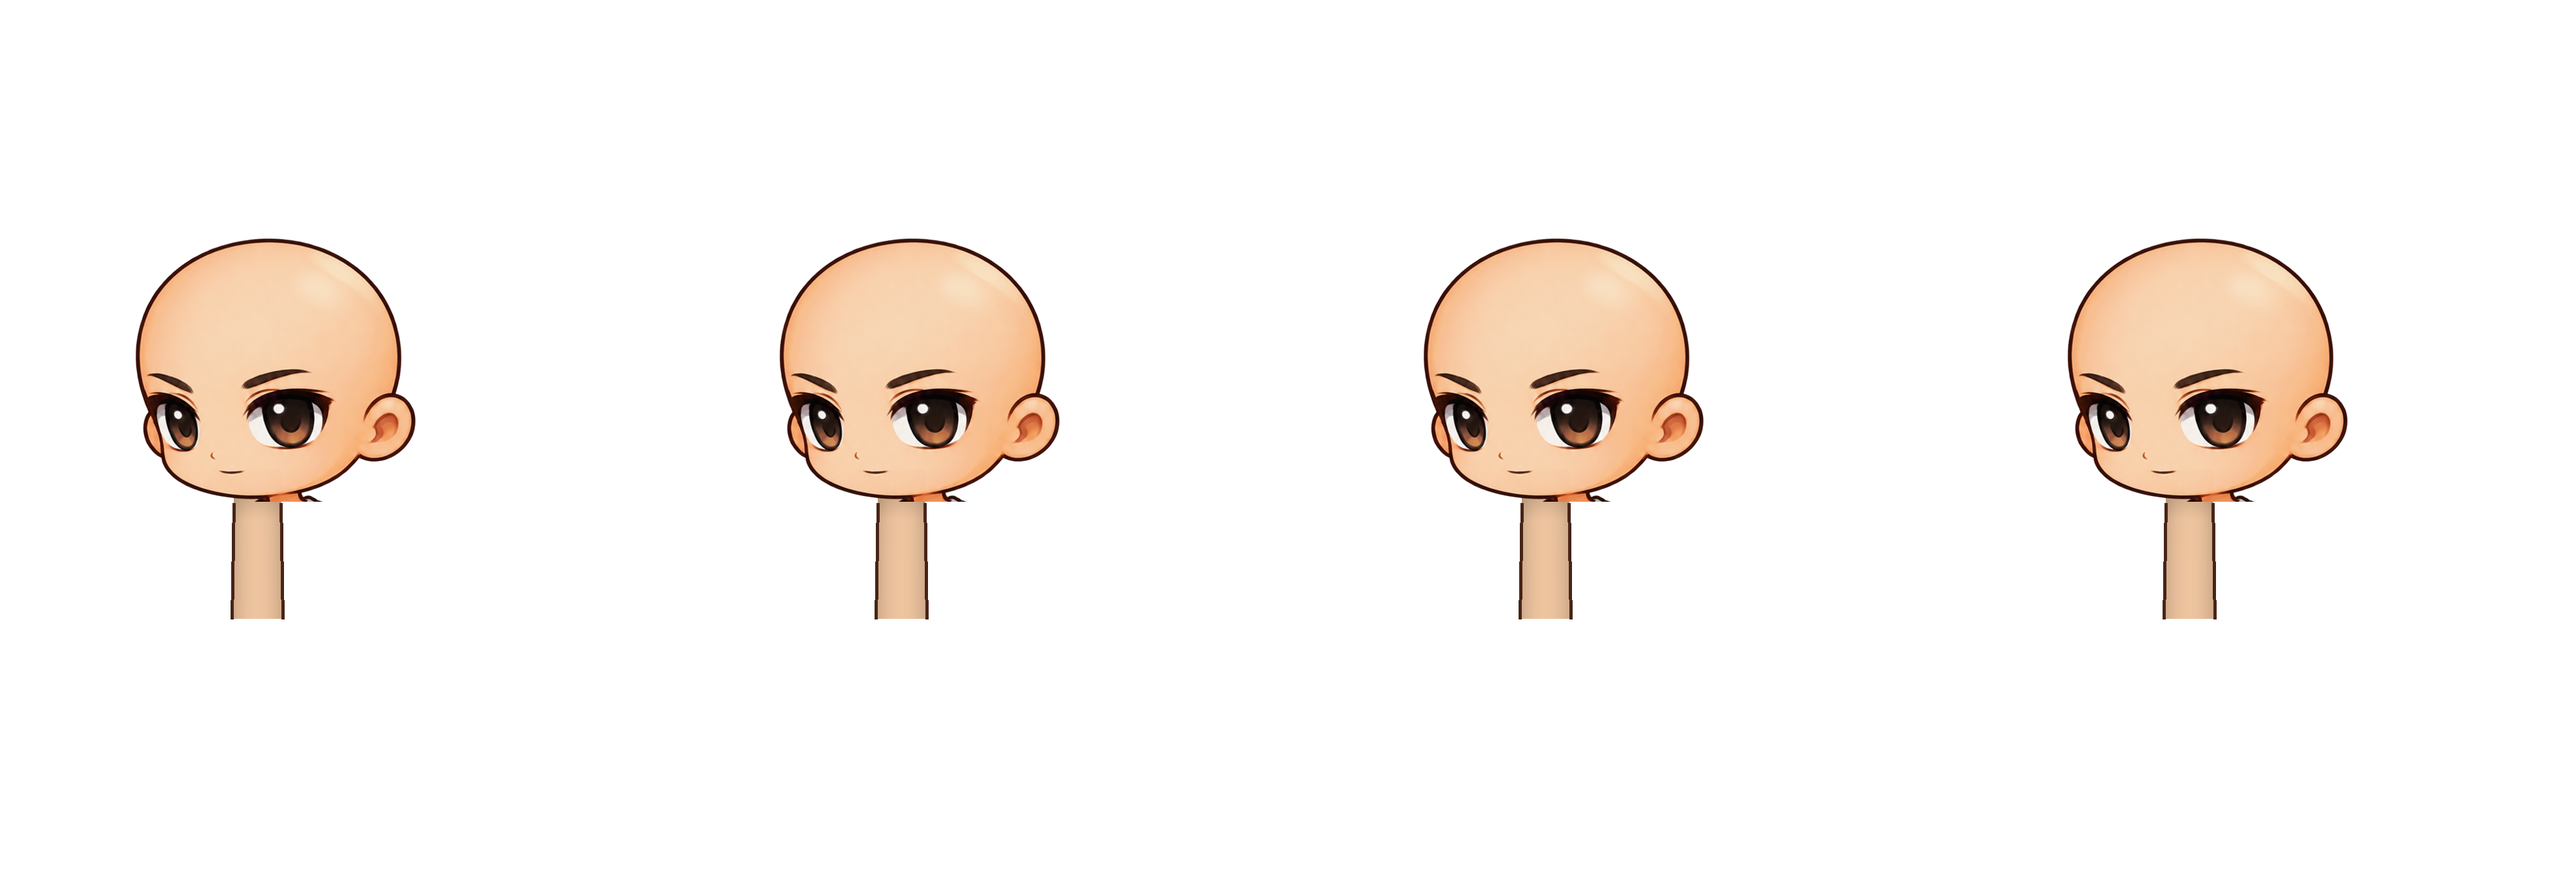
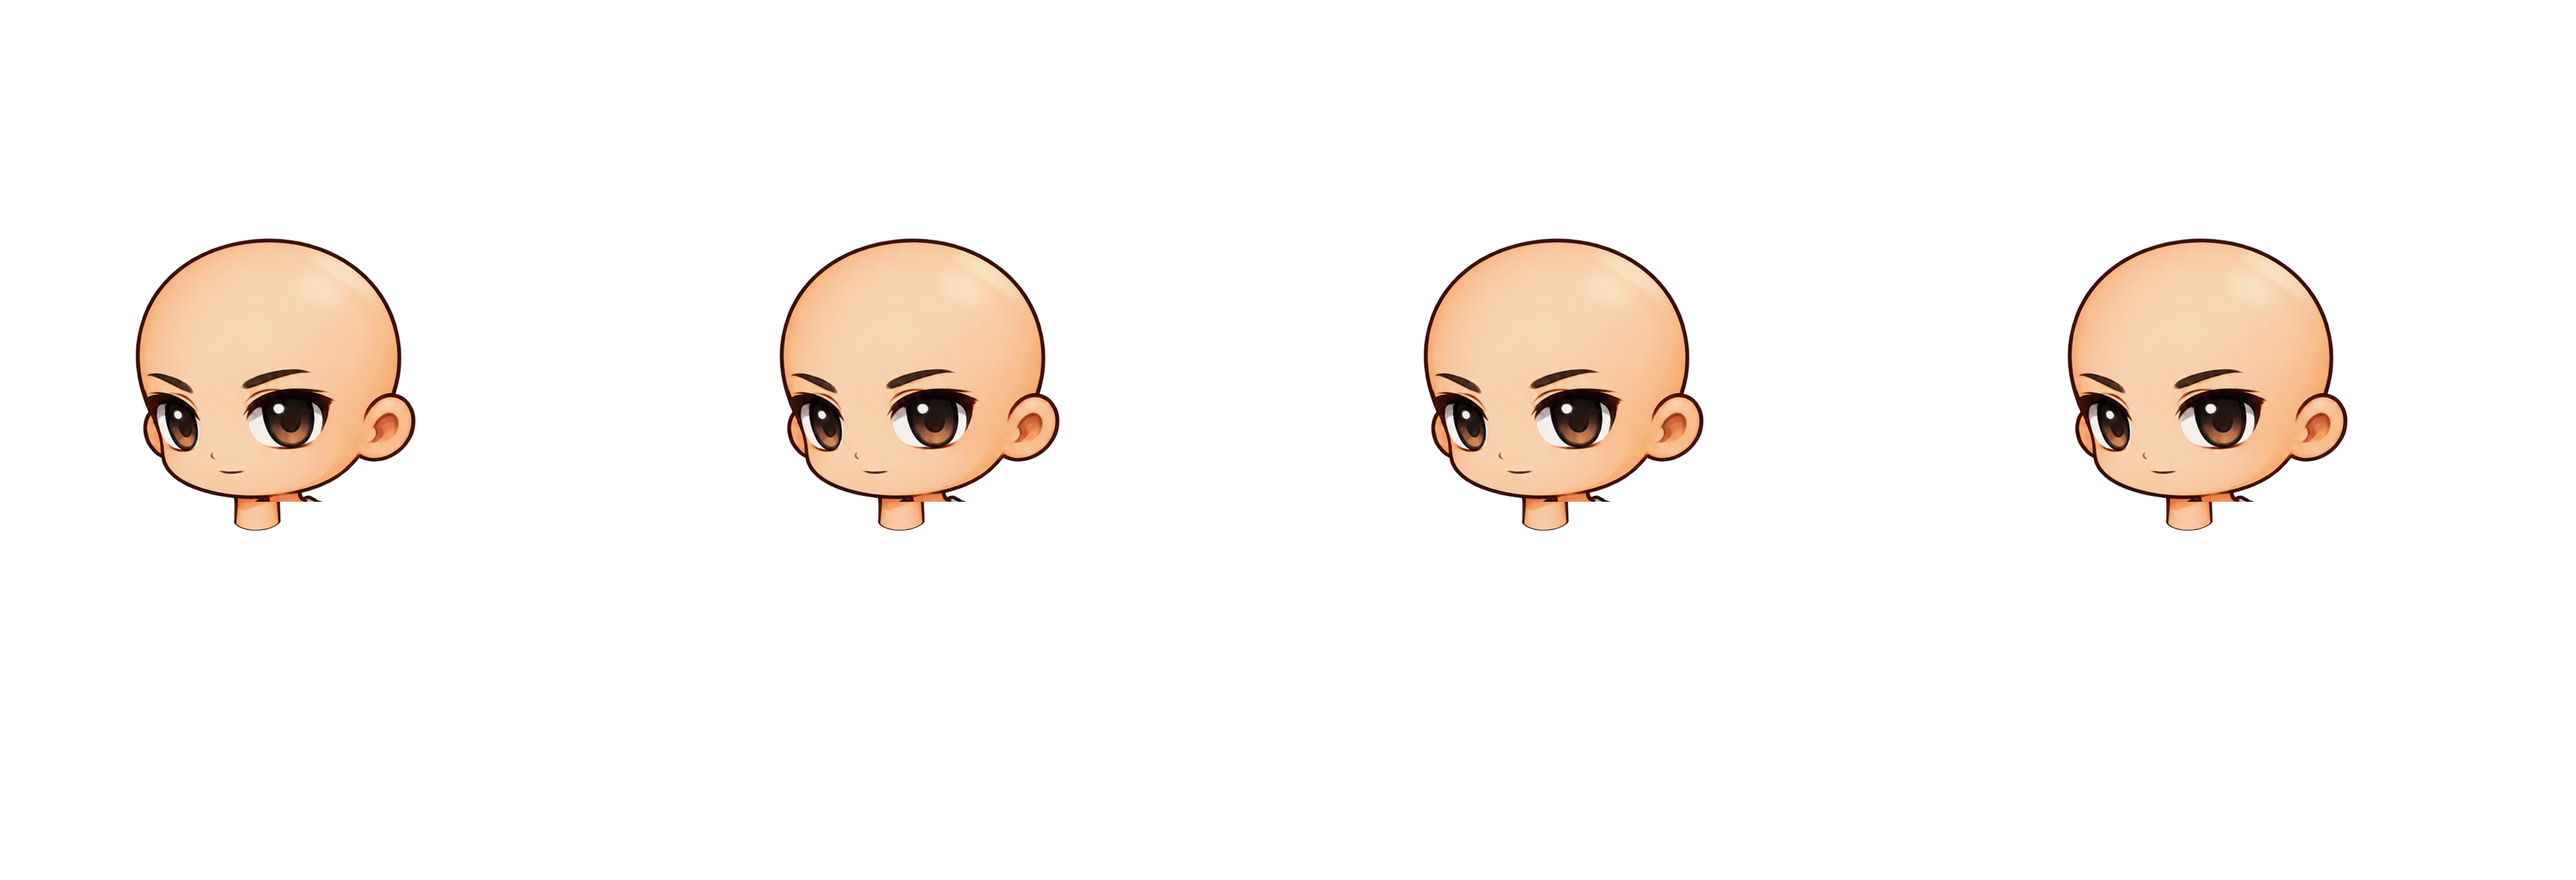
Mochila: pescoço pintado pelo Codex em cada rosto

diff --git a/scripts/kit-v5/build-rig.py b/scripts/kit-v5/build-rig.py
@@ -96,23 +96,30 @@ def face_with_neck(bald_path, head_only):
     sample = H[yy0:yy0 + 6, int(cx) - 6:int(cx) + 6].reshape(-1, 4)
     sample = sample[(sample[:, 3] > 200) & (sample[:, :3].sum(1) > 450)]
     tone = sample[:, :3].mean(0) * .96 if len(sample) else np.array([235, 185, 145])
-    w = hw * .085
-    y0, y1 = chin - int((chin - top) * .12), chin + int((chin - top) * .45)
+    # Pescoço pintado pelo Codex sobre esta cabeça (KIT/pescoco, matheus 22/10: o desenhado em código ficou feio),
+    # alinhado pela caixa da cabeça; dele só entra o que fica abaixo do queixo.
     neck = Image.new('RGBA', head_only.size)
-    d = ImageDraw.Draw(neck)
-    sh = max(1, (chin - top) * .07)
-    for y in range(y0, y1):
-        k = min(1, max(0, (y - chin) / sh))
-        f = .9 + .1 * k  # sombra do queixo logo abaixo dele
-        ww = w * (1 + .06 * max(0, (y - chin) / max(1, y1 - chin)))  # alarga um pouco para baixo
-        for x in range(int(cx - ww), int(cx + ww) + 1):  # volume: um pouco mais escuro nos lados
-            e = abs(x - cx) / max(1, ww)
-            fx = f * (1 - .14 * e * e)
-            d.point((x, y), fill=tuple(min(255, int(v * fx)) for v in tone) + (255,))
-    # contorno dos lados só abaixo do queixo (por cima do queixo translúcido ele aparecia através do rosto)
-    lw = max(3, round(hw * .012)); line = (70, 36, 24, 255)
-    d.line((cx - w, chin + 3, cx - w * 1.06, y1), fill=line, width=lw)
-    d.line((cx + w, chin + 3, cx + w * 1.06, y1), fill=line, width=lw)
+    pp = f'{K}/pescoco/pescoco.png'
+    if os.path.exists(pp):
+        # o pescoço da pintura: de baixo para cima, até onde a largura cresce (o queixo); colado com o topo no nosso queixo
+        P = np.asarray(L(pp)).astype(int)
+        pal = P[..., 3] > 200
+        prow = np.nonzero(pal.any(1))[0]; pbot = prow.max()
+        widths = pal.sum(1)
+        nw = np.median(widths[pbot - 20:pbot - 4])
+        y = pbot - 4
+        while y > prow.min() and widths[y] < nw * 1.5:
+            y -= 1
+        pjaw = y  # primeira linha (de baixo para cima) com o queixo
+        sc = (chin - top) / max(1, pjaw - prow.min())
+        cols = np.nonzero(pal[pjaw + 4:pbot].any(0))[0]
+        pcx = (cols.min() + cols.max()) / 2
+        crop = P[pjaw - 6:pbot + 1, int(cols.min()) - 6:int(cols.max()) + 7].copy()
+        img = Image.fromarray(crop.astype(np.uint8))
+        img = img.resize((max(1, round(img.width * sc)), max(1, round(img.height * sc))), Image.BICUBIC)
+        neck.paste(img, (round(cx - (pcx - cols.min() + 6) * sc), round(chin - 6 * sc - int((chin - top) * .02))), img)
+        S = np.asarray(neck).copy()
+        neck = Image.fromarray(S.astype(np.uint8))
     neck.alpha_composite(head_only)
     return neck
 
